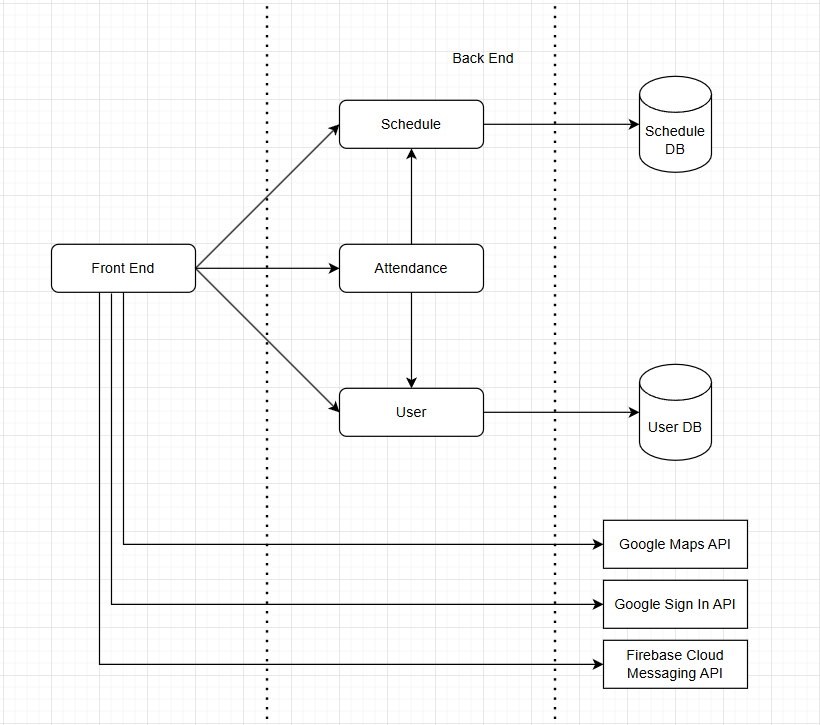
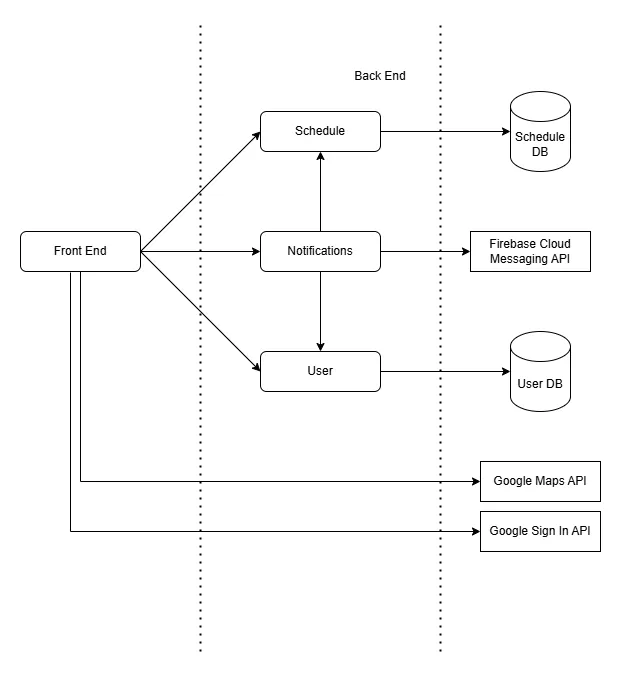
pseudocode and components fully updated, TODO: interfaces

diff --git a/documentation/M3_Requirements_and_Design.md b/documentation/M3_Requirements_and_Design.md
@@ -17,6 +17,14 @@
     - Removed NFR 3 as it was extraneous and not justifiable.
 5. Updated section 4, on February 28.
     - Changed **username** to **sub** (subject) in many places as this is the unique identifier provided by Google Authentication that we are using to identify user data in our data bases.
+6. Updated section 4.1, on March 2.
+    - Removed attendance component as we implemented this component in our frontend
+    - Added checkAttendance() interface to frontend.
+    - Added Notification component as per M3 feedback and per our implementation plans.
+7. Updated section 4.5, on March 2.
+    - Updated dependency diagram to match changes to section 4.1.
+8. Updated section 4.8, on March 2.
+    - Updated description of complexity component and pseudo code to better align with our actual implementation.
 
 ## 2. Project Description
 Get2Class is a gamified calendar to help students get to class on time. The main target audience for this app will be UBC students and professors. The main problem we are trying to solve is simplifying the Workday Student calendar as it is unintuitive and difficult to use. We will make it easy to set up your calendar using data from Workday. It can be difficult, especially for first-year’s, to find your classes using the building acronym on Workday. We will provide maps and walking routes. Additionally, we want to help motivate students to be punctual and attend their classes. Our application aims to solve this by implementing a notification and points system that helps and motivates users to go to classes and provides best routes to reach their next class.
@@ -292,17 +300,17 @@ N/A
 - **Description**: Check whether a user is in the correct class location at the correct time and manages the karma score of the user accordingly.
 - **Why complex?**: This is complex because we have to synchronize all back end components of the app along with the front end Google Maps API. We must utilize the location of the user, the location of the classroom, the time the class starts (obtained from the Schedule DB), the time of the user, and adjust the karma score to give to the user based on several cases.
 - **Design**:
-    - **Input**: The client's sub, the client's current location as GPS coordinates, the client's current time, and the schedule ID the user is interacting with. 
+    - **Input**: The course to be checked, the term of the schedule it came from, and the sub of the user.
     - **Output**: A message will be provided back to the front end for the client. The back end will update the karma based on the conditions.
     - **Main computational logic**:
-        - Determining the class which the user is checking into: If a class is currently taking place or starting in less than 10 minutes, we will select this as the class that the user wants to check into. Otherwise, we will select whichever class is closest in time.
         - Conditional cases for determining which check in status to provide for the user:
+            - If the class is not in this term or this year, notify the user
             - If the class has already been marked as attended, notify the user
             - If it is before the class by more than 10 minutes, they are too early
             - If it is after the class, they are too late
-            - If they are more than 50 meters from the class location, they are marked as in the wrong location
-            - If it is mid way through the class, they are late. Mark the class as attended and add less karma according to how late they are
-            - Otherwise, they are considered on time for up to 10 minutes and they will be marked as attended and will be awarded the full number of karma 
+            - If they are more than 75 meters from the class location, they are marked as in the wrong location
+            - If it is mid way through the class, they are late. Mark the class as attended and add less karma according to how late they are then mark the class as attended
+            - Otherwise, they are considered on time for up to 2 minutes and they will be marked as attended and will be awarded the full number of karma 
         - Class attendance will reset at the end of every day
     - **Pseudo-code**:
         ```
@@ -323,7 +331,7 @@ N/A
                 return "You missed class!"
             elif (75 < coordinatesToDistance(clientLocation, course.location)):
                 return "You are not in the correct location!"
-            elif (course.startTime < clientTime):
+            elif (course.startTime < clientTime - 2):
                 int lateness = clientTime - course.startTime
                 int classLength = course.endTime - course.startTime
                 int karma = (10 * (1 - lateness / classLength) * (course.credits + 1))
@@ -335,50 +343,25 @@ N/A
                 updateAttendance(sub, course, true)
                 return "Welcome to class!"
 
-        
-            cron.schedule('0 0 * * *', async () => {
-                try {
-                    const allSchedules = await client.db("get2class").collection("schedules").find().toArray();
-                    console.log(allSchedules);
-                    for (let i = 0; i < allSchedules.length; i++) {
-                        if (allSchedules[i]["fallCourseList"].length != 0) {
-                            for (let j = 0; j < allSchedules[i]["fallCourseList"].length; j++) {
-                                allSchedules[i]["fallCourseList"][j]["attended"] = false;
-                            }
-                        }
-                        if (allSchedules[i]["winterCourseList"].length != 0) {
-                            for (let j = 0; j < allSchedules[i]["winterCourseList"].length; j++) {
-                                allSchedules[i]["winterCourseList"][j]["attended"] = false;
-                            }
-                        }
-                        if (allSchedules[i]["summerCourseList"].length != 0) {
-                            for (let j = 0; j < allSchedules[i]["summerCourseList"].length; j++) {
-                                allSchedules[i]["summerCourseList"][j]["attended"] = false;
-                            }
-                        }
-                    }
+        clearAttendance():
+            allSchedules = await getAllSchedules();
 
-                    for (let i = 0; i < allSchedules.length; i++) {
-                        const filter = {
-                            sub: allSchedules[i]["sub"]
-                        };
+            for (i = 0; i < allSchedules.length; i++):
+                if (allSchedules[i]["fallCourseList"].length != 0):
+                    for (j = 0; j < allSchedules[i]["fallCourseList"].length; j++):
+                        allSchedules[i]["fallCourseList"][j]["attended"] = false
 
-                        const document = {
-                            $set: {
-                                fallCourseList: allSchedules[i]["fallCourseList"],
-                                winterCourseList: allSchedules[i]["winterCourseList"],
-                                summerCourseList: allSchedules[i]["summerCourseList"]
-                            }
-                        };
+                if (allSchedules[i]["winterCourseList"].length != 0):
+                    for (j = 0; j < allSchedules[i]["winterCourseList"].length; j++):
+                        allSchedules[i]["winterCourseList"][j]["attended"] = false
 
-                        const updatedData = await client.db("get2class").collection("schedules").updateOne(filter, document);
-                    }
-                } catch (err) {
-                    console.error(err);
-                }
-            }, {
-                timezone: "America/Los_Angeles"
-            });
+                if (allSchedules[i]["summerCourseList"].length != 0):
+                    for (j = 0; j < allSchedules[i]["summerCourseList"].length; j++):
+                        allSchedules[i]["summerCourseList"][j]["attended"] = false
+
+
+            for (i = 0; i < allSchedules.length; i++):
+                updatedData = updateSchedule(allSchedules[i])
         ```
 
 
